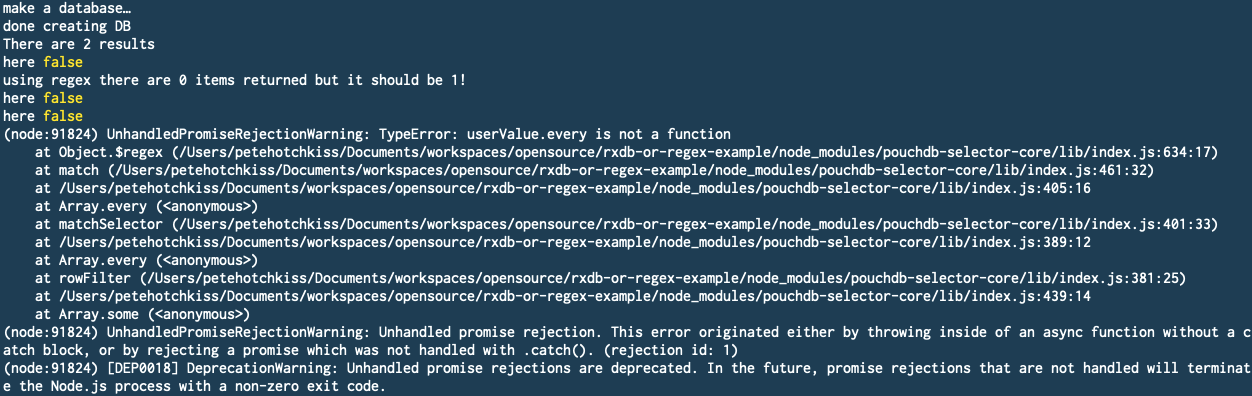
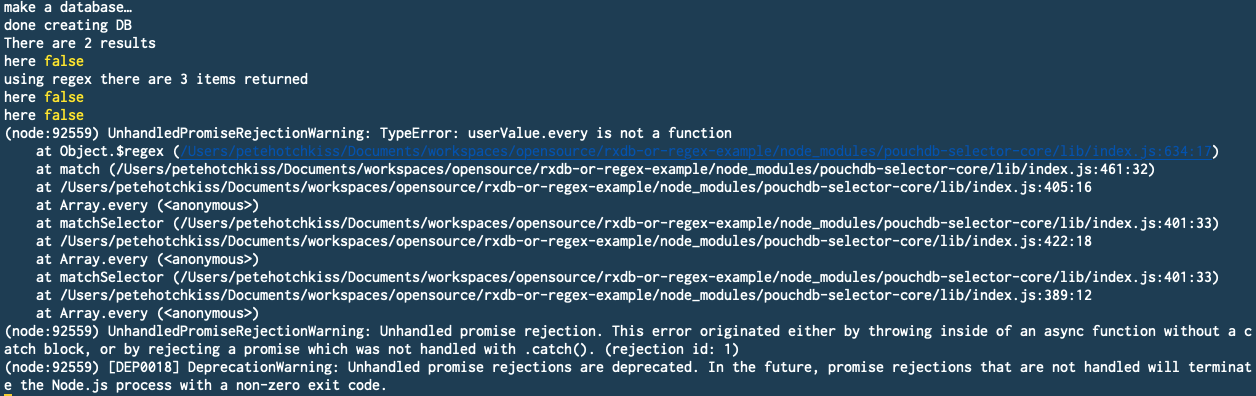
updated image

Changed region(s): [[0.0, 0.0, 1.0, 1.0]]

diff --git a/src/database.ts b/src/database.ts
@@ -63,8 +63,8 @@ export class DataStore {
     let set3 = await this.db.people.find({
       selector: {
         "$or": [
-          { firstName: {"$regex": /.*ian.*/gi } },
-          { surName: {"$regex": /.*ian.*/gi } }
+          { firstName: [{"$regex": /.*ian.*/gi }] },
+          { surName: [{"$regex": /.*ian.*/gi }] }
         ]
       }
     }).exec();
